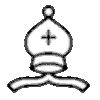
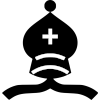
tekstury, ustawienie

diff --git a/src/Pieces.h b/src/Pieces.h
@@ -8,27 +8,25 @@ protected:
 	int y;
 	char type = 'n';
 	int movies =  0;
-	bool side = -1; // 0 = white ||| 1 = black
+	bool side; // 0 = white ||| 1 = black
 public:
 
-	virtual bool possible_move(int x, int y, Piece*** board) = 0; // w agrumencie wskaznik do tablicy, z ustawieniem bierek ---+++
+	virtual void possible_move(int x, int y, Piece*** board, bool** possible_mov) = 0;// w agrumencie wskaznik do tablicy, z ustawieniem bierek ---+++
 	virtual bool possible_capture(int x, int y, Piece*** board) = 0;// @up
 	//virtual char get_type() = 0;
 	//virtual void Promotion ->>>>>>>>>>>>dodaj!! czyli zmiana type!!!!
 	int get_movies();
 	char get_type();
+	bool get_side();
 };
 
 class Pawn :public Piece
 {
 	//static const char type = 'P';
 public:
-	Pawn()
-	{
-		type = 'P';
-	}
+	Pawn(bool side_);
 
-	bool possible_move(int x, int y, Piece*** board); // w agrumencie wskaznik do tablicy, z ustawieniem bierek ---+++
+	void possible_move(int x, int y, Piece*** board, bool** possible_mov); // w agrumencie wskaznik do tablicy, z ustawieniem bierek ---+++
 	bool possible_capture(int x, int y, Piece*** board);// @up
 };
 
@@ -36,12 +34,9 @@ class Knight :public Piece
 {
 	//static const char type = 'K';
 public:
-	Knight()
-	{
-		type = 'K';
-	}
+	Knight(bool side_);
 
-	bool possible_move(int x, int y, Piece*** board); // w agrumencie wskaznik do tablicy, z ustawieniem bierek ---+++
+	void possible_move(int x, int y, Piece*** board, bool** possible_mov); // w agrumencie wskaznik do tablicy, z ustawieniem bierek ---+++
 	bool possible_capture(int x, int y, Piece*** board);// @up
 };
 
@@ -49,11 +44,46 @@ class Bishop :public Piece
 {
 	//static const char type = 'B';
 public:
-	Bishop()
-	{
-		type = 'B';
-	}
+	Bishop(bool side_);
 
-	bool possible_move(int x, int y, Piece*** board); // w agrumencie wskaznik do tablicy, z ustawieniem bierek ---+++
+	void possible_move(int x, int y, Piece*** board, bool** pissible_mov); // w agrumencie wskaznik do tablicy, z ustawieniem bierek ---+++
+	bool possible_capture(int x, int y, Piece*** board);// @up
+};
+
+class Rock :public Piece
+{
+	//static const char type = 'B';
+public:
+	Rock(bool side_);
+
+	void possible_move(int x, int y, Piece*** board, bool** pissible_mov); // w agrumencie wskaznik do tablicy, z ustawieniem bierek ---+++
+	bool possible_capture(int x, int y, Piece*** board);// @up
+};
+
+class Queen :public Piece
+{
+	//static const char type = 'B';
+public:
+	Queen(bool side_);
+
+	void possible_move(int x, int y, Piece*** board, bool** pissible_mov); // w agrumencie wskaznik do tablicy, z ustawieniem bierek ---+++
+	bool possible_capture(int x, int y, Piece*** board);// @up
+};
+
+class King :public Piece
+{
+	//static const char type = 'B';
+public:
+	King(bool side_);
+
+	void possible_move(int x, int y, Piece*** board, bool** pissible_mov); // w agrumencie wskaznik do tablicy, z ustawieniem bierek ---+++
+	bool possible_capture(int x, int y, Piece*** board);// @up
+};
+
+class None :public Piece
+{
+	//static const char type = 'B';
+public:
+	void possible_move(int x, int y, Piece*** board, bool** possible_mov);// w agrumencie wskaznik do tablicy, z ustawieniem bierek ---+++
 	bool possible_capture(int x, int y, Piece*** board);// @up
 };

diff --git a/src/Pieces.cpp b/src/Pieces.cpp
@@ -13,12 +13,22 @@ char Piece::get_type()
 {
 	return type;
 }
-
-
-
-bool Pawn::possible_move(int x, int y, Piece*** board)
+bool Piece::get_side()
 {
-	return 0;
+	return side;
+}
+
+
+Pawn::Pawn(bool side_)
+{
+	type = 'p';
+	side = side_;
+}
+
+void Pawn::possible_move(int x, int y, Piece*** board, bool** possible_mov)
+{
+	std::cout << "pawn posm";
+	return;
 }
 
 bool Pawn::possible_capture(int x, int y, Piece*** board)
@@ -34,9 +44,15 @@ bool Pawn::possible_capture(int x, int y, Piece*** board)
 //	movies = 10;
 //}
 
-bool Knight::possible_move(int x, int y, Piece*** board)
+Knight::Knight(bool side_)
 {
-	return 0;
+	type = 'N';
+	side = side_;
+}
+
+void Knight::possible_move(int x, int y, Piece*** board, bool** possible_mov)
+{
+	
 }
 
 bool Knight::possible_capture(int x, int y, Piece*** board)
@@ -51,14 +67,77 @@ bool Knight::possible_capture(int x, int y, Piece*** board)
 //{
 //	type = 'B';
 //}
-bool Bishop::possible_move(int x, int y, Piece*** board)
+Bishop::Bishop(bool side_)
 {
-	return 0;
+	type = 'B';
+	side = side_;
+}
+
+void Bishop::possible_move(int x, int y, Piece*** board, bool** possible_mov)
+{
+	
 }
 
 bool Bishop::possible_capture(int x, int y, Piece*** board)
 {
 	return 1;
+}
+
+Rock::Rock(bool side_)
+{
+	type = 'R';
+	side = side_;
+}
+
+void Rock::possible_move(int x, int y, Piece*** board, bool** possible_mov)
+{
+
+}
+
+bool Rock::possible_capture(int x, int y, Piece*** board)
+{
+	return 1;
+}
+
+Queen::Queen(bool side_)
+{
+	type = 'Q';
+	side = side_;
+}
+
+void Queen::possible_move(int x, int y, Piece*** board, bool** possible_mov)
+{
+
+}
+
+bool Queen::possible_capture(int x, int y, Piece*** board)
+{
+	return 1;
+}
+
+King::King(bool side_)
+{
+	type = 'K';
+	side = side_;
+}
+
+void King::possible_move(int x, int y, Piece*** board, bool** possible_mov)
+{
+
+}
+
+bool King::possible_capture(int x, int y, Piece*** board)
+{
+	return 1;
+}
+
+void None::possible_move(int x, int y, Piece*** board, bool** possible_mov)
+{
+	return;
+}
+bool None::possible_capture(int x, int y, Piece*** board)
+{
+	return 0;
 }
 
 //char Bishop::get_type() { return type; }

diff --git a/src/Board.cpp b/src/Board.cpp
@@ -3,16 +3,46 @@
 
 Board::Board()
 {
-	board = new Piece * *[8];
+	piece = new Piece * *[8];
 	for (int i = 0; i < 8; i++) 
 	{
-		board[i] = new Piece * [8];
+		piece[i] = new Piece * [8];
+		for (int x = 0; x < 8; x++)
+		{
+			piece[i][x] = nullptr;
+		}
 	}
 	// Tu ulozuc plansze
-	Piece *p;
 	
-	p = new Pawn();
-	board[3][4] = p;
+	piece[0][0] = new Rock(0);
+	piece[1][0] = new Knight(0);
+	piece[2][0] = new Bishop(0);
+	piece[3][0] = new Queen(0);
+	piece[4][0] = new King(0);
+	piece[5][0] = new Bishop(0);
+	piece[6][0] = new Knight(0);
+	piece[7][0] = new Rock(0);
 
-	std::cout<<p->get_type();
+	for (int i = 0; i < 8; i++) { piece[i][1] = new Pawn(0); }
+
+	piece[0][7] = new Rock(1);
+	piece[1][7] = new Knight(1);
+	piece[2][7] = new Bishop(1);
+	piece[3][7] = new Queen(1);
+	piece[4][7] = new King(1);
+	piece[5][7] = new Bishop(1);
+	piece[6][7] = new Knight(1);
+	piece[7][7] = new Rock(1);
+
+	for (int i = 0; i < 8; i++) { piece[i][6] = new Pawn(1); }
+
+	
+	
+
+	//std::cout<<p->get_type();
+}
+
+Piece* Board::get_piece(int x, int y)
+{
+	return piece[x][y];
 }

diff --git a/src/main.cpp b/src/main.cpp
@@ -1,9 +1,10 @@
 #include <iostream>
-#include "Board.h"
 #include "Board_screen.h"
+
+//
 //int main()
 //{
-//	Board gameplay_board;
+//
 //	//Board w klasie "okno gry" w oknie potencjalnie bedzie tablica dostepnych, wybrana aktualnie biuerka(x, y)
 //	//std::cout << "abca";
 //	return 0;
@@ -11,6 +12,7 @@
 
 void basic_events(sf::Event& e, sf::RenderWindow& w)
 {
+    //std::cout << "ahoj1";
     if (e.type == sf::Event::Closed)
     {
         std::cout << "ahoj";
@@ -22,10 +24,11 @@ std::string window_state;
 static sf::Font font;
 int main()
 {
+    Board aaa;
     sf::Text t;
     sf::Texture a;
     sf::Font b;
-    sf::RenderWindow window(sf::VideoMode(1100, 900), "SFML works!");
+    sf::RenderWindow window(sf::VideoMode(1100, 900), "Project Chess");
     sf::CircleShape shape(100.f);
     shape.setFillColor(sf::Color::Green);
 

diff --git a/src/Board_screen.h b/src/Board_screen.h
@@ -1,14 +1,17 @@
 #include <iostream>
 #include "Button.h"
-
+#include "Board.h"
 
 class Board_screen
 {
 	typedef void(*Actions)(sf::Event& e, sf::RenderWindow& w);
+	Board board;
 	Button*** field;
-	sf::Texture movie_tex, pressed_tex;
-	sf::Sprite movie_web[8][8];
+	sf::Texture movie_tex, pressed_tex, p0_t, p1_t, b0_t, b1_t, n0_t, n1_t, r0_t, r1_t, k0_t, k1_t,
+		q0_t, q1_t;
+	sf::Sprite movie_weeb[8][8], pieces[8][8];
 	sf::Vector2i pressed;
+	bool possible_movie[8][8] = { false };
 
 
 	//sf::RectangleShape **white_field, black_field;
@@ -18,4 +21,5 @@ public:
 	void play(sf::RenderWindow& w, Actions basic_events);
 
 	char y_to_ch(int y);
+	sf::Texture* get_piece_txt(Piece* p);
 };
